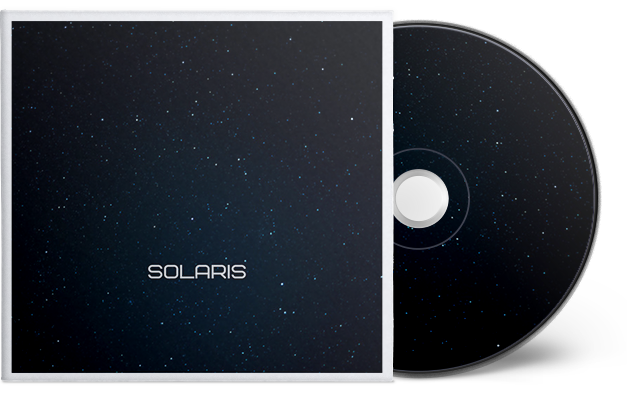
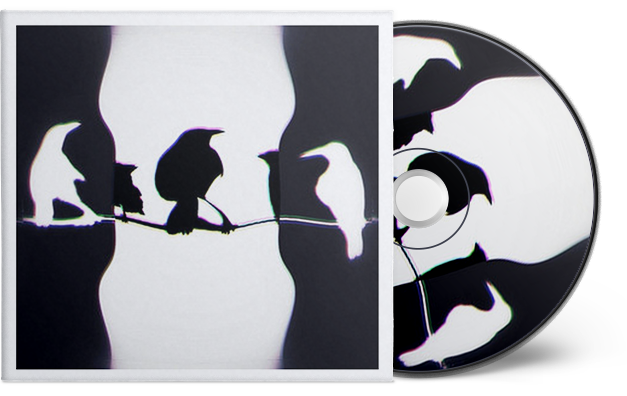
add new cover

diff --git a/src/state.js b/src/state.js
@@ -11,6 +11,7 @@ import facebook from './Components/Media/Icon/fb.svg';
 // Мокап диска с новым релизом
 import newCover from './Components/Media/Img/Disk-min.png';
 // Авторская музыка обложки
+import Imitating from './Components/Media/Cover/Imitating_a_crow.jpeg';
 import Solaris from './Components/Media/Cover/solaris-mini.png';
 import Ehe from './Components/Media/Cover/Paimon Bass House_mini-min.png';
 import Wonderland from './Components/Media/Cover/wonderland_mini-min.png';
@@ -33,18 +34,24 @@ let state = {
     newRelease: [
         {
             img: newCover,
-            title: 'SOLARIS',
+            title: 'Imitating a crow',
             Spotify: 'spotify:artist:65gqGF50z1RJWQmgVU0nEp',
             AppleMusic: 'https://music.apple.com/ru/artist/unfixt/1505885622',
-            YouTube: 'https://www.youtube.com/channel/UCBz7dDysICz71qlxM0Da0NQ',
+            YouTube: 'https://www.youtube.com/watch?v=IkAxqEOl_vM',
         }
     ],
     music: [
         {
+            title: 'Imitating a crow',
+            href: 'https://www.youtube.com/watch?v=IkAxqEOl_vM',
+            img: Imitating,
+            genre: 'Neurofunk\\Drum and Bass',
+        },
+        {
             title: 'SOLARIS',
             href: 'https://www.youtube.com/watch?v=NkImTzez8bE',
             img: Solaris,
-            genre: 'electronic\\experimental',
+            genre: 'Electronic\\Experimental',
         },
         {
             title: 'Ehe Te Nandayo',
